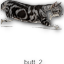
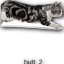
fix: 宠物帧白毛保留(绝对阈值min>246替代全局>180白清理)

diff --git a/gen_pet_frames.py b/gen_pet_frames.py
@@ -20,29 +20,30 @@ OUT = os.path.join(ROOT, 'public', 'assets')
 FINAL_SIZE = 64
 
 
-def flood_key_bg(im, tol=40):
-    """从画布四边泛洪，删除与边界连通的背景色像素（纯白底适用，离线）。"""
+def flood_key_bg(im, bg_min=246):
+    """从画布四边泛洪，删除与边界连通的背景（纯白底）像素。
+    判定用**绝对亮度阈值**：min(r,g,b) > bg_min 才视为背景。
+    旧版用「距四角容差」会把猫身白毛（~240 距纯白 255 差值<40）一并吃掉，
+    改绝对阈值后猫白毛（<246）不会被泛洪进入，只吃轮廓处与背景的 1px 过渡。"""
     im = im.convert('RGBA')
     w, h = im.size
     px = im.load()
-    corners = [px[0, 0][:3], px[w - 1, 0][:3], px[0, h - 1][:3], px[w - 1, h - 1][:3]]
-    bg = tuple(sum(c[i] for c in corners) // 4 for i in range(3))
 
-    def near_bg(p):
-        return max(abs(p[0] - bg[0]), abs(p[1] - bg[1]), abs(p[2] - bg[2])) <= tol
+    def is_bg(p):
+        return p[0] > bg_min and p[1] > bg_min and p[2] > bg_min
 
     visited = bytearray(w * h)
     dq = deque()
     for x in range(w):
         for y in (0, h - 1):
             i = y * w + x
-            if not visited[i] and near_bg(px[x, y][:3]):
+            if not visited[i] and is_bg(px[x, y][:3]):
                 visited[i] = 1
                 dq.append((x, y))
     for y in range(h):
         for x in (0, w - 1):
             i = y * w + x
-            if not visited[i] and near_bg(px[x, y][:3]):
+            if not visited[i] and is_bg(px[x, y][:3]):
                 visited[i] = 1
                 dq.append((x, y))
     while dq:
@@ -52,7 +53,7 @@ def flood_key_bg(im, tol=40):
             nx, ny = x + dx, y + dy
             if 0 <= nx < w and 0 <= ny < h:
                 i = ny * w + nx
-                if not visited[i] and near_bg(px[nx, ny][:3]):
+                if not visited[i] and is_bg(px[nx, ny][:3]):
                     visited[i] = 1
                     dq.append((nx, ny))
     return im
@@ -100,18 +101,41 @@ def slice_cell(sheet, row, col):
     return img.crop(box)
 
 
-def remove_bg(cell):
-    """边缘泛洪键控抠白底 + 近白后清理（离线）。"""
-    im = flood_key_bg(cell)
-    # 后清理：泛洪可能漏掉地面阴影/反光的近白像素（RGB 全 > 220）
+def _flood_remove_connected_white(im, white_thresh=246):
+    """从已透明的背景区域出发，泛洪删除与之连通的近纯白像素（背景残留），
+    保留被猫身体包围的内部白毛（不连通背景，不会被删）。
+    阈值与 flood_key_bg 一致（min 通道 > white_thresh 才算近纯白背景）。"""
     px = im.load()
     w, h = im.size
+    visited = bytearray(w * h)
+    dq = deque()
+    # seed：已被边缘泛洪删成透明（即背景）的像素
     for y in range(h):
         for x in range(w):
-            r, g, b, a = px[x, y]
-            if r > 180 and g > 180 and b > 180:
-                px[x, y] = (0, 0, 0, 0)
+            if px[x, y][3] == 0:
+                visited[y * w + x] = 1
+                dq.append((x, y))
+    while dq:
+        x, y = dq.popleft()
+        for dx, dy in ((1, 0), (-1, 0), (0, 1), (0, -1)):
+            nx, ny = x + dx, y + dy
+            if 0 <= nx < w and 0 <= ny < h:
+                i = ny * w + nx
+                if visited[i]:
+                    continue
+                r, g, b, a = px[nx, ny]
+                if a > 0 and r > white_thresh and g > white_thresh and b > white_thresh:
+                    px[nx, ny] = (0, 0, 0, 0)
+                    visited[i] = 1
+                    dq.append((nx, ny))
     return im
+
+
+def remove_bg(cell):
+    """边缘泛洪键控抠白底 + 连通性白底清理（离线，保留猫身白毛）。"""
+    im = flood_key_bg(cell, bg_min=246)
+    # 后清理：只删与背景连通的近纯白残留（地面阴影/反光），绝删内部白毛
+    return _flood_remove_connected_white(im, white_thresh=246)
 
 
 def fit_contain(im, size):
